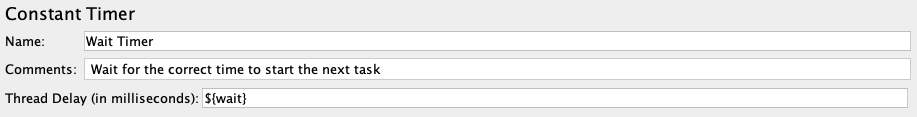
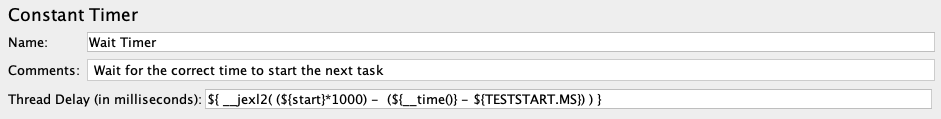
Undated JMeter post to remove plugin

diff --git a/content/posts/2021-06-03-jmeter-replay-csv/index.md b/content/posts/2021-06-03-jmeter-replay-csv/index.md
@@ -29,16 +29,16 @@ With a little massaging, I end up with a flat file that looks like this. Obvious
 
 ```text
 Test	Start	Query
-1	    0	    SELECT count(*) AS Count FROM users;
-2	    1	    SELECT count(*) AS Count FROM users;
-3	    1	    SELECT count(*) AS Count FROM users;
-4	    5	    SELECT count(*) AS Count FROM users;
-5	    5	    SELECT count(*) AS Count FROM users;
-6	    5	    SELECT count(*) AS Count FROM users;
-7	    10	    SELECT count(*) AS Count FROM users;
-8	    10	    SELECT count(*) AS Count FROM users;
-9	    10	    SELECT count(*) AS Count FROM users;
-10	    10  	SELECT count(*) AS Count FROM users;
+1	0       SELECT count(*) AS Count FROM users;
+2	1       SELECT count(*) AS Count FROM users;
+3	1       SELECT count(*) AS Count FROM users;
+4	5       SELECT count(*) AS Count FROM users;
+5	5       SELECT count(*) AS Count FROM users;
+6	5       SELECT count(*) AS Count FROM users;
+7	10      SELECT count(*) AS Count FROM users;
+8	10      SELECT count(*) AS Count FROM users;
+9	10      SELECT count(*) AS Count FROM users;
+10	10      SELECT count(*) AS Count FROM users;
 ```
 
 ## Test Plan
@@ -59,30 +59,22 @@ Let's walk through the steps.
 
 **Configure Redshift** is a *JDBC Connection Configuration* that defines the connection pool for Redshift. You will need to add the [Redshift JDBC driver](https://docs.aws.amazon.com/redshift/latest/mgmt/configure-jdbc-connection.html) to the JMeter lib folder and restart JMeter if you are running a Redshift test. 
 
-**Calculate Wait Time** is a *Set Variables Action*. This step defines a new variable named `wait` which is the number of milliseconds this thread needs to sleep before making the request. 
-
-![Calculate Wait Time](calculate-wait-time.png)
-
-It is calculated as follows, where `time()` is the current time in ms and `TESTSTART.MS` is the time the test started in ms. Therefore, the new `wait` variable is the time from now that the next step should start in ms. 
-
-```java
-${ __jexl2( (${start}*1000) -  (${__time()} - ${TESTSTART.MS}) ) }
-```
-Note that this step requires a plugin to JMeter. However it is optional. You can simply calculate the wait time in the Wait Timer. I wanted to log the variable while I was debugging so I calculated it in a separate step. 
-
-![Plugin](plugin.png)
-
-
-**Log Variables** is a *Debug Sampler* that logs the variables so I can see what is happening. This is an optional step and can be eliminated if you prefer.
+**Execution Controller** is a *Simple Controller* that groups the Query and Wait together. Honestly, I'm not clear why I need a controller here, but the Run Query task would not wait for the timer unless I added it. 
 
 **Run Query** is a *JDBC Request* that executes whatever is in the query variable for the current thread against the Redshift connection pool.
 
 ![JDBC Request](jdbc-request.png)
 
-**Wait Timer** is a *Constant Timer* that sleeps for the number of ms stored in the `wait` variable calculated above. It is a child of **Run Query** so that it only delays the Run Query step. Note that the wait occurs before **Run Query** executes. 
+**Wait Timer** is a *Constant Timer* that sleeps until it's time execute the query. It is a child of **Run Query** so that it only delays the Run Query step. Note that the wait occurs before **Run Query** executes. 
 
 ![Wait Timer](wait-timer.png)
 
+The wait is calculated as follows, where time() is the current time in ms and TESTSTART.MS is the time the test started in ms. Therefore, the new wait variable is the time from now that the next step should start (in ms).
+
+```java
+${ __jexl2( (${start}*1000) -  (${__time()} - ${TESTSTART.MS}) ) }
+```
+
 **Summary Report** and **View Results Tree** simply export test results in different formats. These are optional and cen be eliminate or replaced with another Listener if you prefer. 
 
-Overall this seems to meet my goals. It's not perfect -- some queries are delayed a few seconds -- but over the course of a day that should not matter much. If you have a better way, please add it in the comments. If you would like, you can download [my test plan](redshift-test-plan.jmx) or [this version without the plugin](redshift-test-plan-without-plugin.jmx).
+Overall this seems to meet my goals. It's not perfect -- some queries are delayed a few seconds -- but over the course of a day that should not matter much. If you have a better way, please add it in the comments. If you would like, you can download [my test plan](redshift-test-plan.jmx).
